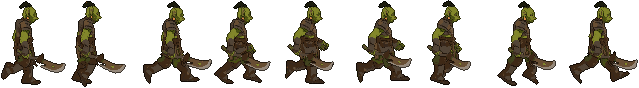
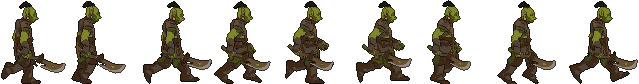
Animation changes and map edited

diff --git a/Player.java b/Player.java
@@ -1,11 +1,11 @@
-import java.awt.Dimension;
+//import java.awt.Dimension;
 import java.awt.Graphics2D;
-import java.awt.Rectangle;
+
 import java.awt.geom.Rectangle2D;
 import javax.swing.JPanel;
-import javax.swing.JPanel;
-import java.awt.Image;
-import javax.swing.ImageIcon;
+// import javax.swing.JPanel;
+// import java.awt.Image;
+// import javax.swing.ImageIcon;
 import java.awt.Point;
 
 public class Player {            
@@ -23,9 +23,9 @@ public class Player {
    private int y;            // y-position of player's sprite
 
    Graphics2D g2;
-   private Dimension dimension;
+   //private Dimension dimension;
 
-   private Image playerImage, playerLeftImage, playerRightImage;
+   //private Image playerImage, playerLeftImage, playerRightImage;
 
    private boolean jumping;
    private int timeElapsed;
@@ -37,6 +37,16 @@ public class Player {
    private boolean inAir;
    private int initialVelocity;
    private int startAir;
+   private int width;
+   private int height;
+
+   private GridAnimation idle;
+   private GridAnimation walkRight;
+   private GridAnimation walkLeft;
+  // private GridAnimation death;
+  // private GridAnimation jump;
+
+   private GridAnimation currentAnim;
 
    public Player (JPanel panel, TileMap t, BackgroundManager b) {
       this.panel = panel;
@@ -47,11 +57,49 @@ public class Player {
       goingUp = goingDown = false;
       inAir = false;
 
-      playerLeftImage = ImageManager.loadImage("images/playerLeft.gif");
-      playerRightImage = ImageManager.loadImage("images/playerRight.gif");
-      playerImage = playerRightImage;
+      this.width=40;
+      this.height=45;
 
+      idle = new GridAnimation("Warrior/Idle.png", 1, 6, true);
+      walkRight= new GridAnimation("Warrior/WalkRight.png", 1, 8, true);
+      walkLeft= new GridAnimation("Warrior/WalkLeft.png", 1, 8, true);
+      //death = new GridAnimation("Warrior/Dead.png", 1, 4, false);
+
+     // jump = new GridAnimation("Warrior/Jump.png", 1, 5, true);
+      
+      currentAnim=idle;
+      currentAnim.start();
+   
    }
+
+
+   
+    public void setAnimation(String name){
+        GridAnimation newAnim=null;
+        if(name.equals("idle")){
+            newAnim = idle;
+   
+        }else if(name.equals("walkRight")){
+                newAnim = walkRight;
+            
+        }
+        else if(name.equals("walkLeft")){
+                newAnim = walkLeft;
+            
+        }
+      //   else if(name.equals("jump")){
+      //       newAnim = jump;
+      //   }
+      //   else if(name.equals("death")){
+      //       newAnim = death;
+      //   }
+
+        if(currentAnim!= newAnim){
+            currentAnim=newAnim;
+            currentAnim.start();
+        }
+
+    }
 
 
    // public Point collidesWithTile(int newX, int newY) {
@@ -72,14 +120,14 @@ public class Player {
    // }
    public Point collidesWithTile(int newX, int newY) {  //cater for left and right collisions mainly 
 
-      int playerWidth = playerImage.getWidth(null);
-      int playerHeight = playerImage.getHeight(null);
+     
+      
       int offsetY = tileMap.getOffsetY();
       
       int xTile = tileMap.pixelsToTiles(newX);
       // checks the point of both the x and y axis for collisions . 
       int yTileFrom = tileMap.pixelsToTiles(newY - offsetY+2); // added 2 so it wont detect the floor and be stuck in place
-      int yTileTo = tileMap.pixelsToTiles(newY - offsetY + playerHeight-2);
+      int yTileTo = tileMap.pixelsToTiles(newY - offsetY + height-2);
 
       for (int yTile = yTileFrom; yTile <= yTileTo; yTile++) {
         if (tileMap.getTile(xTile, yTile) != null) {
@@ -93,13 +141,11 @@ public class Player {
 
    public Point collidesWithTileDown (int newX, int newY) {
 
-      int playerWidth = playerImage.getWidth(null);
-            int playerHeight = playerImage.getHeight(null);
             int offsetY = tileMap.getOffsetY();
             
       int xTile = tileMap.pixelsToTiles(newX);
       int yTileFrom = tileMap.pixelsToTiles(y - offsetY);
-      int yTileTo = tileMap.pixelsToTiles(newY - offsetY + playerHeight);
+      int yTileTo = tileMap.pixelsToTiles(newY - offsetY + height);
 
       for (int yTile=yTileFrom; yTile<=yTileTo; yTile++) {
         if (tileMap.getTile(xTile, yTile) != null) {
@@ -109,7 +155,7 @@ public class Player {
         else {
             if (tileMap.getTile(xTile+1, yTile) != null) {
                 int leftSide = (xTile + 1) * TILE_SIZE;
-                if (newX + playerWidth > leftSide) {
+                if (newX + width > leftSide) {
                     Point tilePos = new Point (xTile+1, yTile);
                     return tilePos;
                     }
@@ -123,7 +169,7 @@ public class Player {
 
    public Point collidesWithTileUp (int newX, int newY) {
 
-      int playerWidth = playerImage.getWidth(null);
+     
 
             int offsetY = tileMap.getOffsetY();
       int xTile = tileMap.pixelsToTiles(newX);
@@ -139,7 +185,7 @@ public class Player {
         else {
             if (tileMap.getTile(xTile+1, yTile) != null) {
                 int leftSide = (xTile + 1) * TILE_SIZE;
-                if (newX + playerWidth > leftSide) {
+                if (newX + width > leftSide) {
                     Point tilePos = new Point (xTile+1, yTile);
                     return tilePos;
                     }
@@ -190,7 +236,7 @@ public class Player {
       if (!panel.isVisible ()) return;
       
       if (direction == 1) {        // move left
-         playerImage = playerLeftImage;
+      setAnimation("walkLeft");
             newX = x - DX;
          if (newX < 0) {
          x = 0;
@@ -198,7 +244,7 @@ public class Player {
          }
          
          tilePos = collidesWithTile(newX, y);
-         int playerWidth = playerImage.getWidth(null);
+        
 
          if (tilePos == null && tileMap.getDoor().isSolid()) {
             if (tileMap.getDoor().collidesWithPlayer()) {
@@ -212,18 +258,18 @@ public class Player {
       } 
       else                
       if (direction == 2) {        // move right
-         playerImage = playerRightImage;
-               int playerWidth = playerImage.getWidth(null);
+         setAnimation("walkRight");
+         
             newX = x + DX;
 
                int tileMapWidth = tileMap.getWidthPixels();
 
-         if (newX + playerImage.getWidth(null) >= tileMapWidth) {
-            x = tileMapWidth - playerImage.getWidth(null);
+         if (newX + width >= tileMapWidth) {
+            x = tileMapWidth - width;
             return;
          }
 
-         tilePos = collidesWithTile(newX+playerWidth, y);
+         tilePos = collidesWithTile(newX+width, y);
          if (tilePos == null && tileMap.getDoor().isSolid()) {
             if (tileMap.getDoor().collidesWithPlayer()) {
       
@@ -236,9 +282,12 @@ public class Player {
          }           
       }
       else                // jump
-      if (direction == 3 && !jumping) {    
+      if (direction == 3 && !jumping) {     
           jump();
       return;
+      }
+      else if (direction == 0) {
+          setAnimation("idle");
       }
     
       if (tilePos != null) {  
@@ -249,8 +298,8 @@ public class Player {
          else
          if (direction == 2) {
             System.out.println (": Collision going right");
-            int playerWidth = playerImage.getWidth(null);
-            x = ( ((int) tilePos.getX() ) * TILE_SIZE- playerWidth); // keep flush with left side of tile eg 15x32=448, 448-32=416 but the player can move an extra amount 
+            
+            x = ( ((int) tilePos.getX() ) * TILE_SIZE- width); // keep flush with left side of tile eg 15x32=448, 448-32=416 but the player can move an extra amount 
          }
      }
       else {
@@ -267,8 +316,8 @@ public class Player {
           if (isInAir()) {
           System.out.println("In the air. Starting to fall.");
           if (direction == 1) {                // make adjustment for falling on left side of tile
-                    int playerWidth = playerImage.getWidth(null);
-          x = x - playerWidth + DX;
+                
+          x = x - width + DX;
           }
           fall();
           }
@@ -278,19 +327,17 @@ public class Player {
 
    public boolean isInAir() {  // no longer uses collideswithTile, checks feet directly
 
-      int playerHeight;
-      int playerWidth;
+     
 
       Point tilePos;
 
       if (!jumping && !inAir) {   
-          playerHeight = playerImage.getHeight(null);
-          playerWidth  = playerImage.getWidth(null);
+        
           int offsetY = tileMap.getOffsetY();
           int leftTile  = tileMap.pixelsToTiles(x);
-         int rightTile = tileMap.pixelsToTiles(x + playerWidth - 1);
+         int rightTile = tileMap.pixelsToTiles(x + width - 1);
 
-        int yTile = tileMap.pixelsToTiles(y - offsetY + playerHeight + 1);
+        int yTile = tileMap.pixelsToTiles(y - offsetY + height + 1);
 
         // ONLY check directly below both feet
         if (tileMap.getTile(leftTile, yTile) == null &&
@@ -319,6 +366,7 @@ public class Player {
 
 
    public void jump () {  
+      //setAnimation("jump");
 
       if (!panel.isVisible ()) return;
 
@@ -336,6 +384,8 @@ public class Player {
 
 
    public void update () {
+      currentAnim.update();
+
       int distance = 0;
       int newY = 0;
 
@@ -376,7 +426,7 @@ public class Player {
             int tileTopY = ((int) tilePos.getY()) * TILE_SIZE + offsetY;
 
             // snap player to top of tile (same as normal landing)
-            y = tileTopY - playerImage.getHeight(null);
+            y = tileTopY - height;
 
             // THEN check water
             if (checkWaterCollision(tilePos)) {
@@ -384,13 +434,13 @@ public class Player {
             }
 
             System.out.println ("Jumping: Collision Going Down!");
-              int playerHeight = playerImage.getHeight(null);
+             
             goingDown = false;
 
                       //int offsetY = tileMap.getOffsetY();
             int topTileY = ((int) tilePos.getY()) * TILE_SIZE + offsetY;
 
-                y = topTileY - playerHeight;
+                y = topTileY - height;
               jumping = false;
             inAir = false;
            }
@@ -424,6 +474,13 @@ public class Player {
    public int getY() {
       return y;
    }
+   public int getHeight() {
+      return this.height;
+   }
+   public int getWidth() {
+      return this.width;
+   }
+
 
 
    public void setY(int y) {
@@ -431,12 +488,16 @@ public class Player {
    }
 
 
-   public Image getImage() {
-      return playerImage;
+   // public Image getImage() {
+   //    return playerImage;
+   // }
+
+   public void draw(Graphics2D g2, int offsetX) {
+         currentAnim.draw(g2,x+offsetX,y,width,height);
    }
 
    public Rectangle2D.Double getBounds() {
-      return new Rectangle2D.Double(x, y, playerImage.getWidth(null), playerImage.getHeight(null));
+      return new Rectangle2D.Double(x, y, width,height);
   }
 
   private boolean checkWaterCollision(Point tilePos) {

diff --git a/TileMap.java b/TileMap.java
@@ -90,8 +90,9 @@ public class TileMap {
 
     sprites = new LinkedList();
 
-    Image playerImage = player.getImage();
-    int playerHeight = playerImage.getHeight(null);
+    
+
+    int playerHeight = player.getHeight();
 
     int x, y;
     x = (dimension.width / 2) + TILE_SIZE;        // position player in middle of screen
@@ -245,11 +246,9 @@ public class TileMap {
 
         // draw player
 
-        g2.drawImage(player.getImage(),
-            Math.round(player.getX()) + offsetX,
-            Math.round(player.getY()), //+ offsetY,
-            null);
+       // g2.drawImage(player.getImage(),Math.round(player.getX()) + offsetX,Math.round(player.getY()) + offsetY, player.getWidth(), player.getHeight(), null);
 
+       player.draw(g2, offsetX);
         // draw key
         key.draw(g2, offsetX);
 
@@ -311,6 +310,11 @@ public class TileMap {
 
     }
 
+    public void moveNowhere(){
+
+        player.move(0);
+    }
+
 
     public void jump() {
     int x, y;
@@ -366,11 +370,9 @@ public class TileMap {
 
     public void resetPlayer() {
 
-        Image playerImage = player.getImage();
-        int playerHeight = playerImage.getHeight(null);
     
         int x = (dimension.width / 2) + TILE_SIZE;
-        int y = dimension.height - ((TILE_SIZE * 3) + playerHeight);
+        int y = dimension.height - ((TILE_SIZE * 3) + player.getHeight());
     
         player.setX(x);
         player.setY(y);

diff --git a/GamePanel.java b/GamePanel.java
@@ -237,6 +237,9 @@ public class GamePanel extends JPanel
         if (jumpPressed && !jumpWasPressed) {
             tileMap.jump();
         }
+        if(!leftPressed && !rightPressed) {
+            tileMap.moveNowhere();
+        }
 
         jumpWasPressed = jumpPressed;
     }
